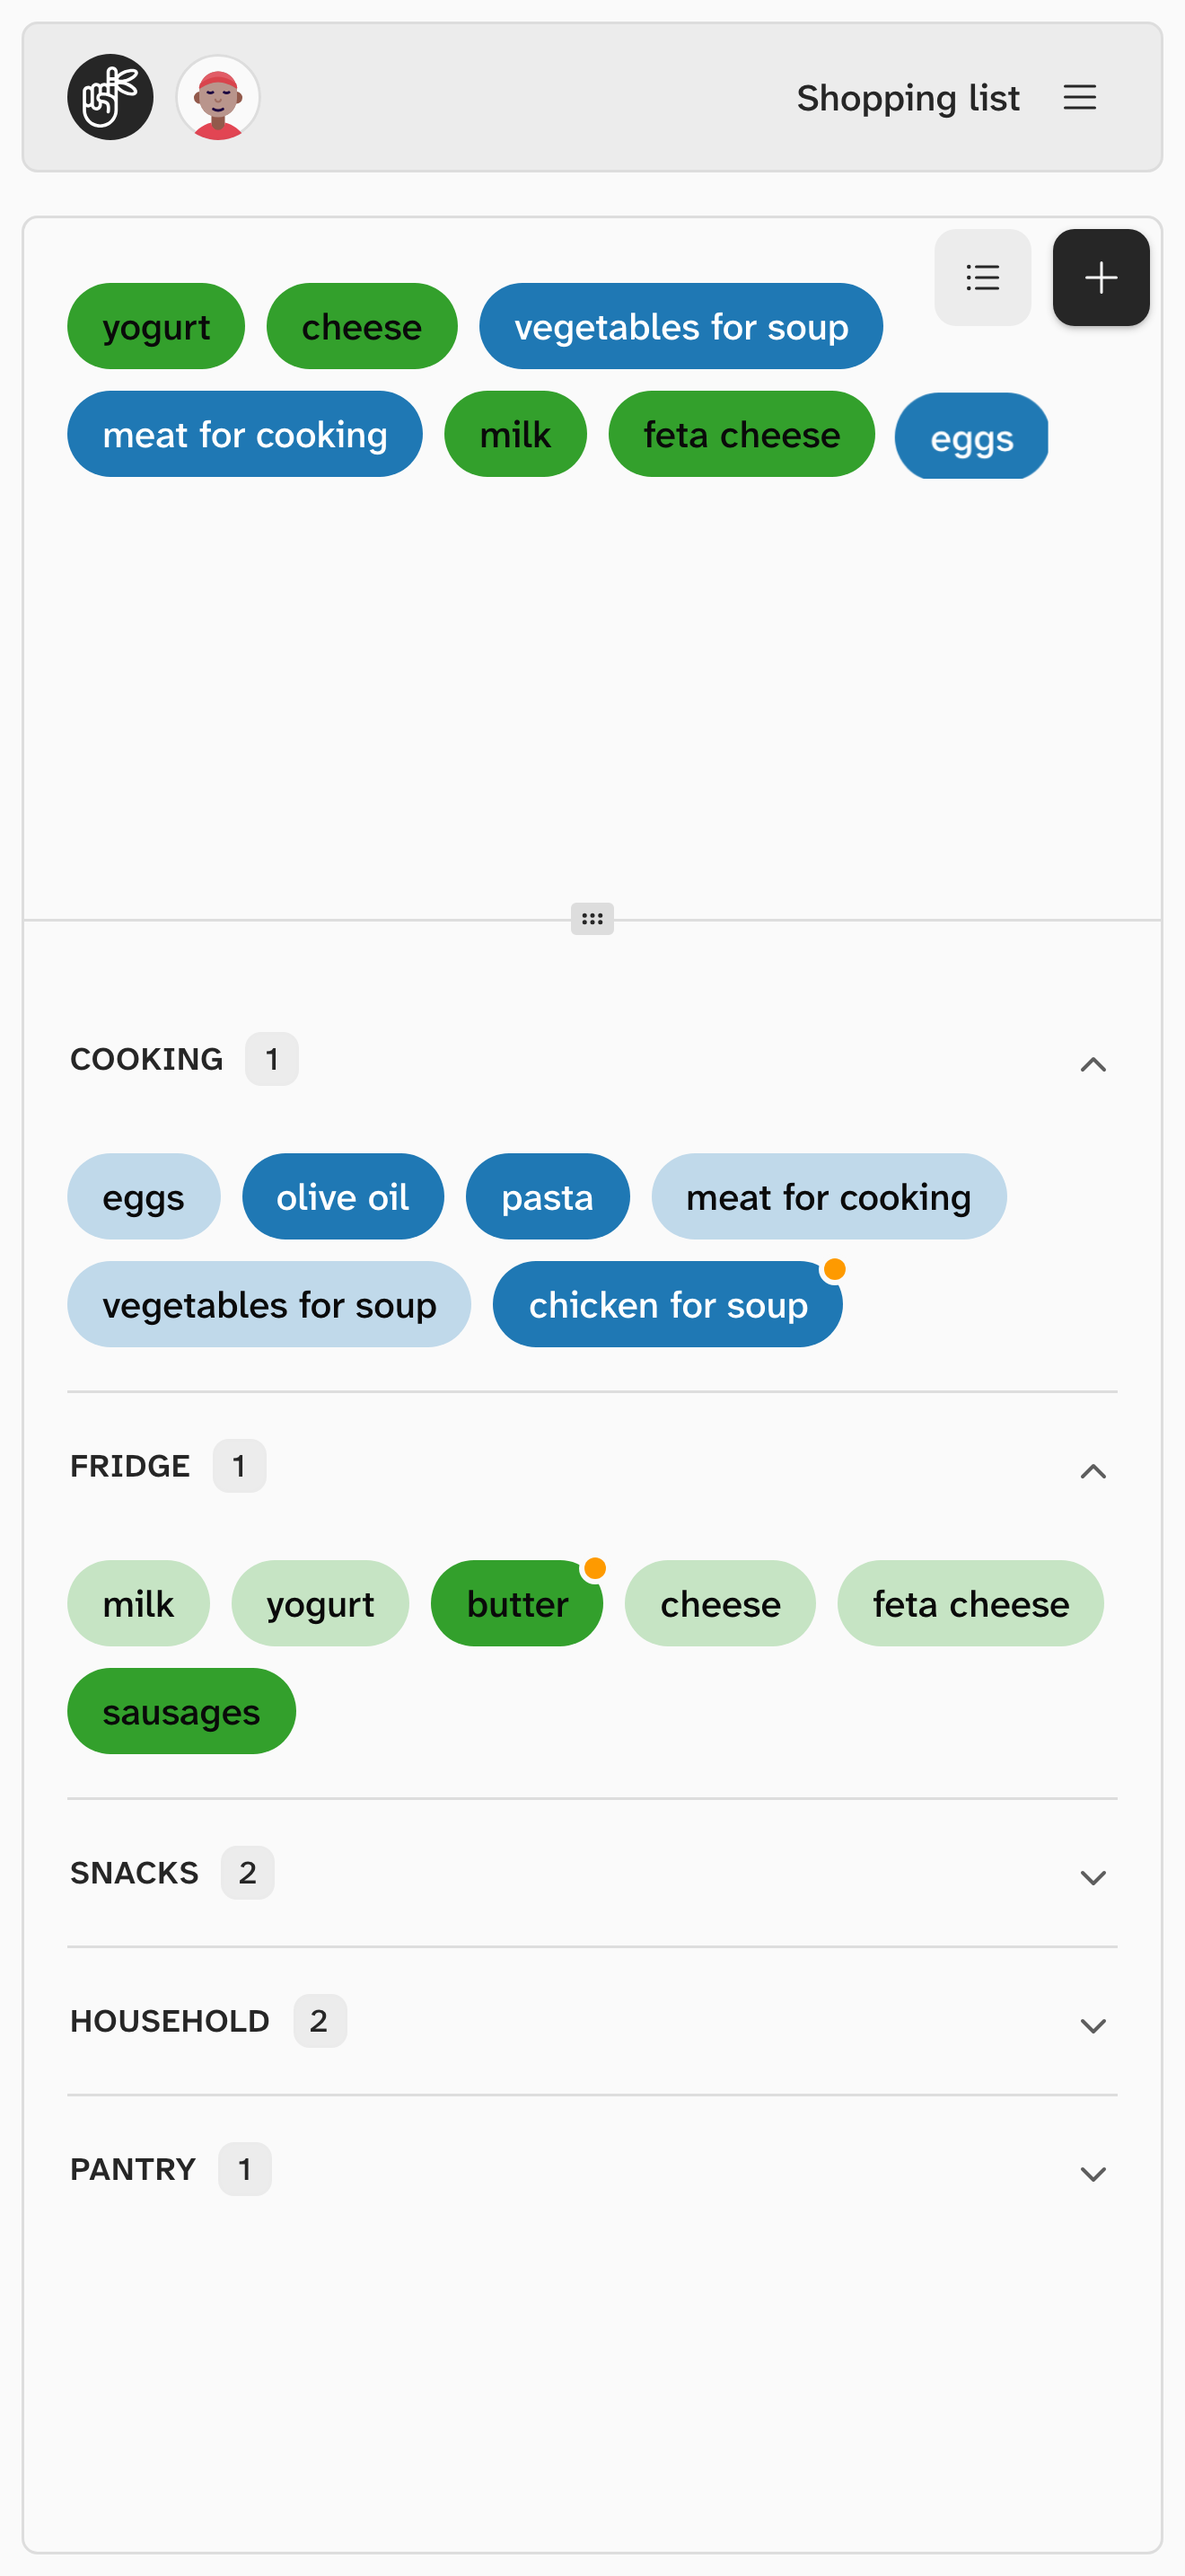
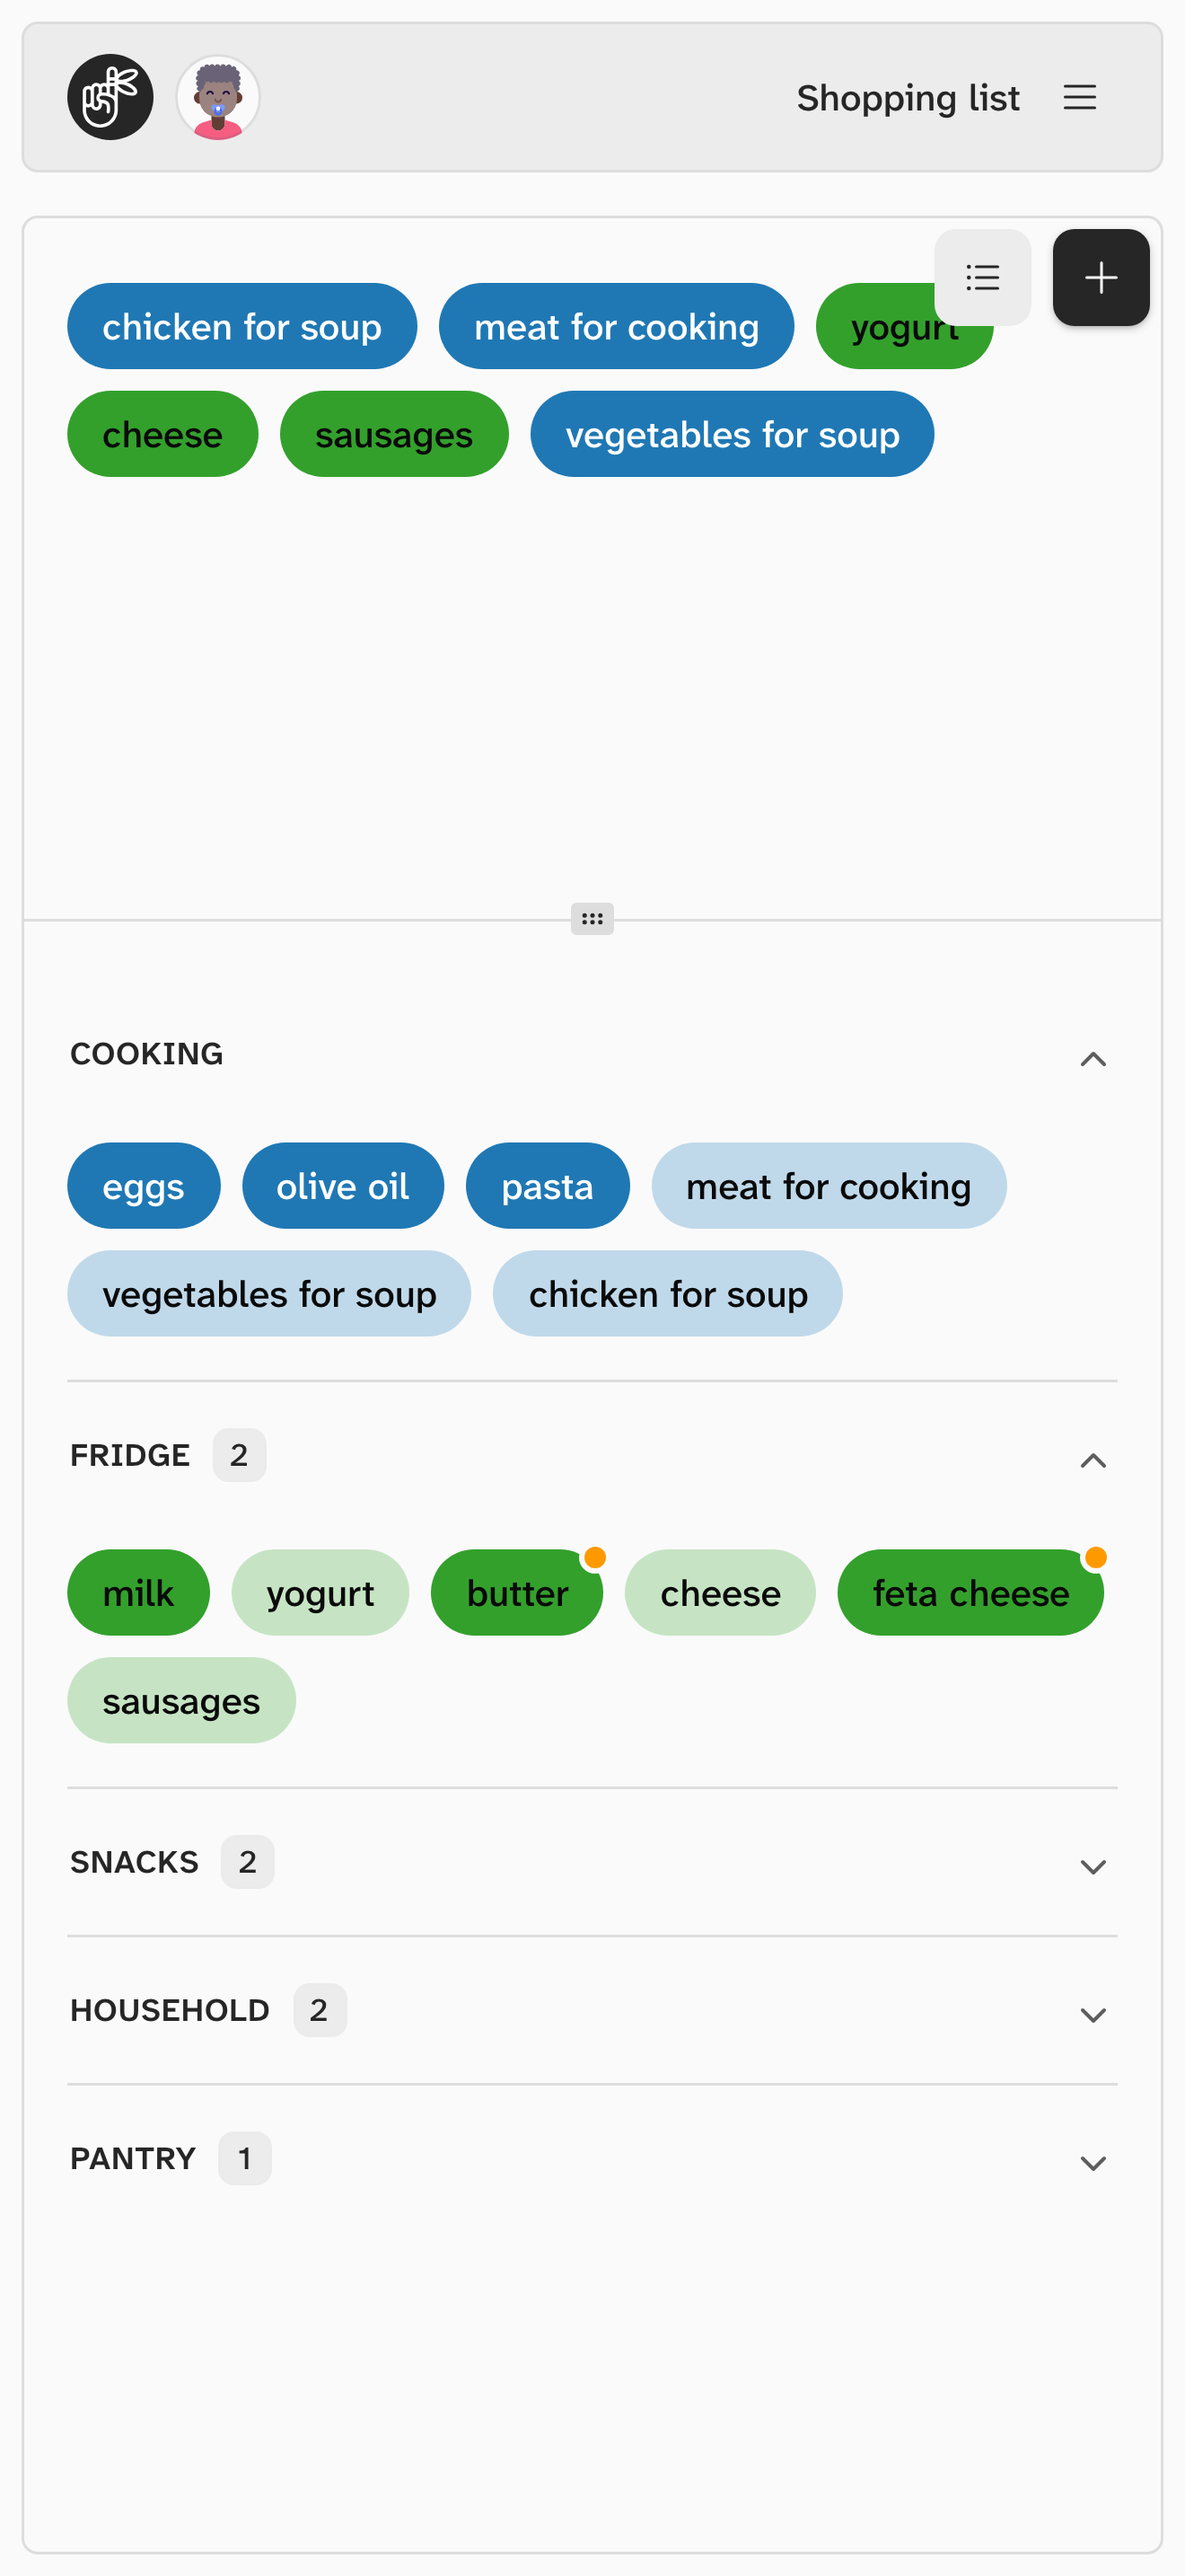
chore: release v4.4.0

diff --git a/src/views/help.tsx b/src/views/help.tsx
@@ -172,6 +172,7 @@ const HelpView = () => (
       <ul className="flex list-disc flex-col gap-1 pl-5 text-muted-foreground marker:text-muted-foreground">
         <li>{m.helpDataLocal()}</li>
         <li>{m.helpDataSeed()}</li>
+        <li>{m.helpDataBackup()}</li>
         <li>
           {m.helpDataResetPrefix()}{" "}
           <Link

diff --git a/CHANGELOG.md b/CHANGELOG.md
@@ -2,6 +2,24 @@
 
 All notable changes to Remindit will be documented in this file.
 
+## v4.4.0 — 2026-09-01
+
+_Make it yours — pick an avatar you like, and bring your data with you wherever you go._
+
+### ✨ New Features
+
+- **Pick your avatar**: Profile now offers 12 randomly generated avatar options — reroll until one feels right, and your choice is saved instantly
+- **Restore from backup**: bring your data back from a downloaded backup file — import it from Profile, or offer it right during a fresh onboarding and skip setup entirely
+
+### 🔧 Improvements
+
+- **About & Help stay in sync**: both pages now mention avatar editing and backup restore, and the "Your data" section explains how backups work
+
+### 🐛 Fixes
+
+- **Safer backups**: import validates the file's contents before touching your data — broken entries are dropped instead of breaking the app, oversized files are rejected up front with a clear message, and a backup made by a newer app version warns you before importing
+- **A more resilient avatar picker**: if avatars fail to load (for example after an app update), the picker now tells you and lets you retry instead of spinning forever
+
 ## v4.3.0 — 2026-09-01
 
 _Remindit now speaks Romanian — choose your language at first run or switch anytime from Profile._
